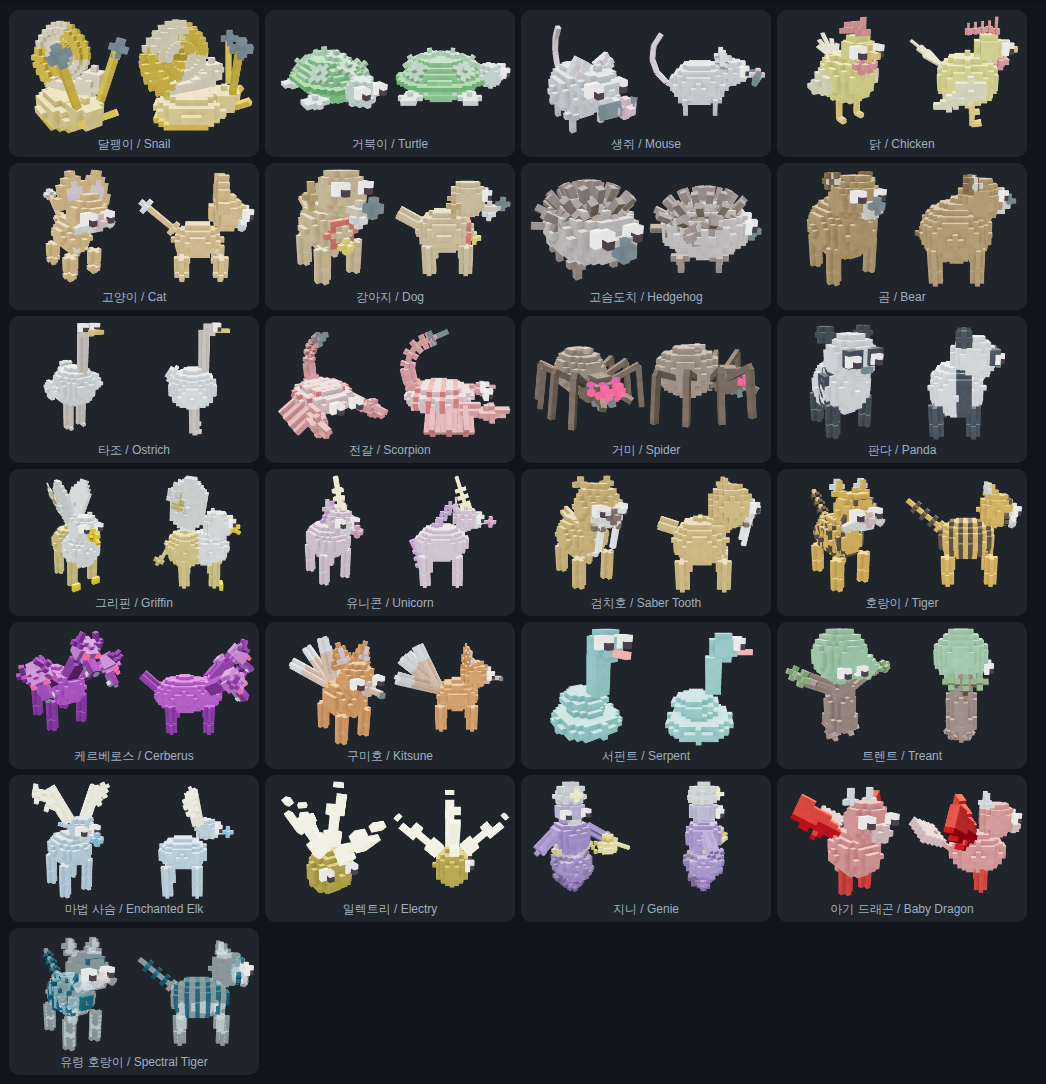
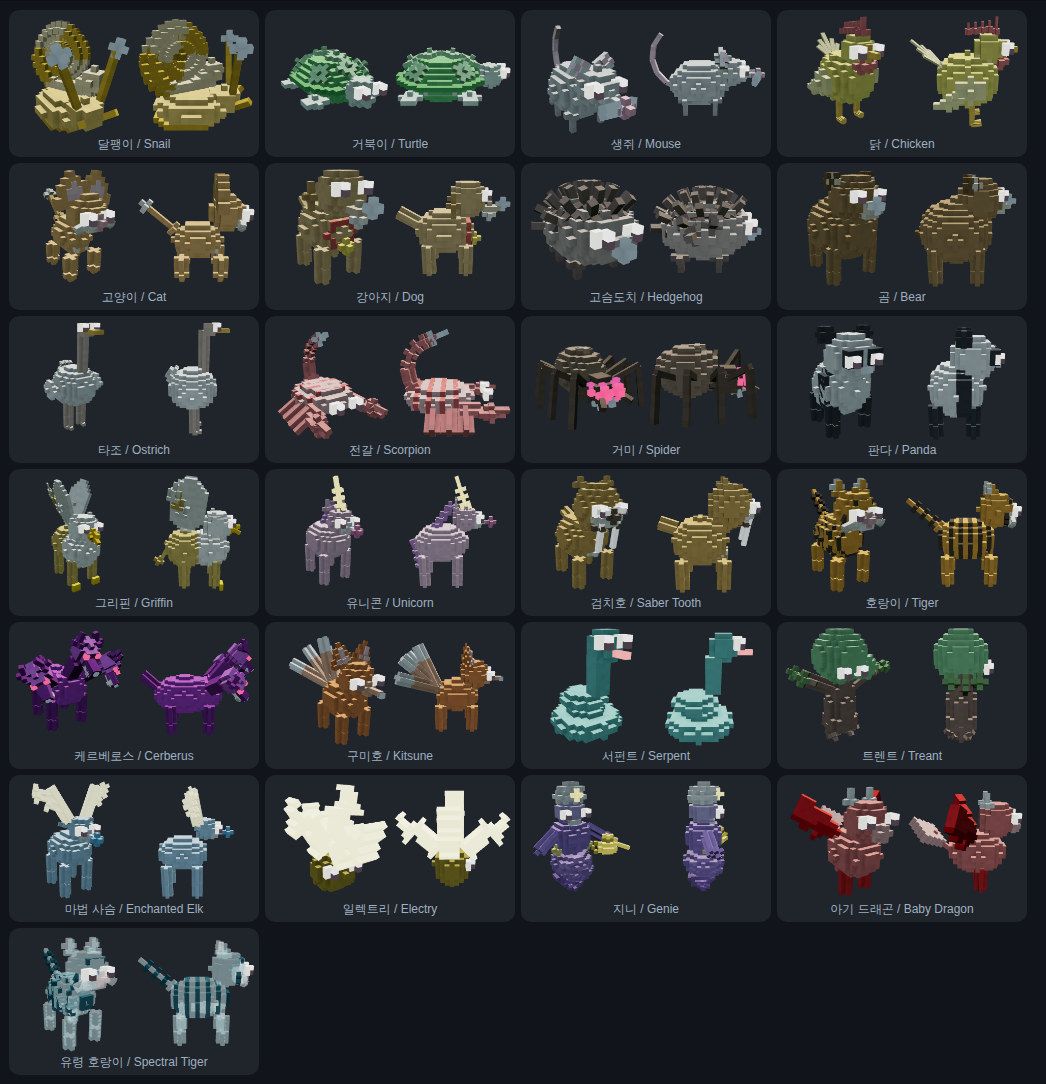
펫 일렉트리 번개 갈래 청키화 — 굵기 0.033→0.050·두께 2→4칸
비평가 2인 공통 최악 잔존 감점 '일렉트리 = 흩어진 얇은 막대/스파크'. 갈래를 얇은 판(2칸)에서 청키 블록 지그재그(4칸)로 굵혀 코어 골드볼 몸통(얼굴 포함)에서 뻗는 번개 팔로 읽히게. L 0.285→0.265 로 밑동 바닥 여유 유지. probe-pet-thumbs ①②③④⑥⑦ PASS(색상각 55.9°≤40). ⑤ Serpent 선재.

(pet-riverbond-remake)

diff --git a/web/js/scene3d.js b/web/js/scene3d.js
@@ -10170,7 +10170,7 @@ const Scene3D = {
                 //    그래서 같은 꼭짓점 목록으로 **칸 중심 point-in-polygon** 을 돌려 채운다 — 실루엣은
                 //    보존되고 모서리만 계단이 된다. 실측: 밑동 7칸 → 목 3칸 → 어깨 10칸 → 끝 1칸.
                 const boltVox = (() => {
-                    const w = 0.033, L = 0.285, D = 2;                 // D = 두께(칸). 종전 depth 0.03 ≈ 2칸
+                    const w = 0.050, L = 0.265, D = 4;                 // D = 두께(칸). 굵기 0.033→0.050·두께 2→4칸: 얇은 판 번개 → 청키 블록 지그재그(비평가 2인 공통 최악 '흩어진 얇은 막대'). L 살짝 줄여 밑동 바닥 여유 유지
                     const P = [[-w, 0], [w, 0], [w * 0.35, L * 0.45], [w * 1.5, L * 0.5],
                                [-w * 0.2, L], [w * 0.2, L * 0.62], [-w * 1.4, L * 0.55], [-w * 0.35, L * 0.42]];
                     const inside = (px, py) => {
